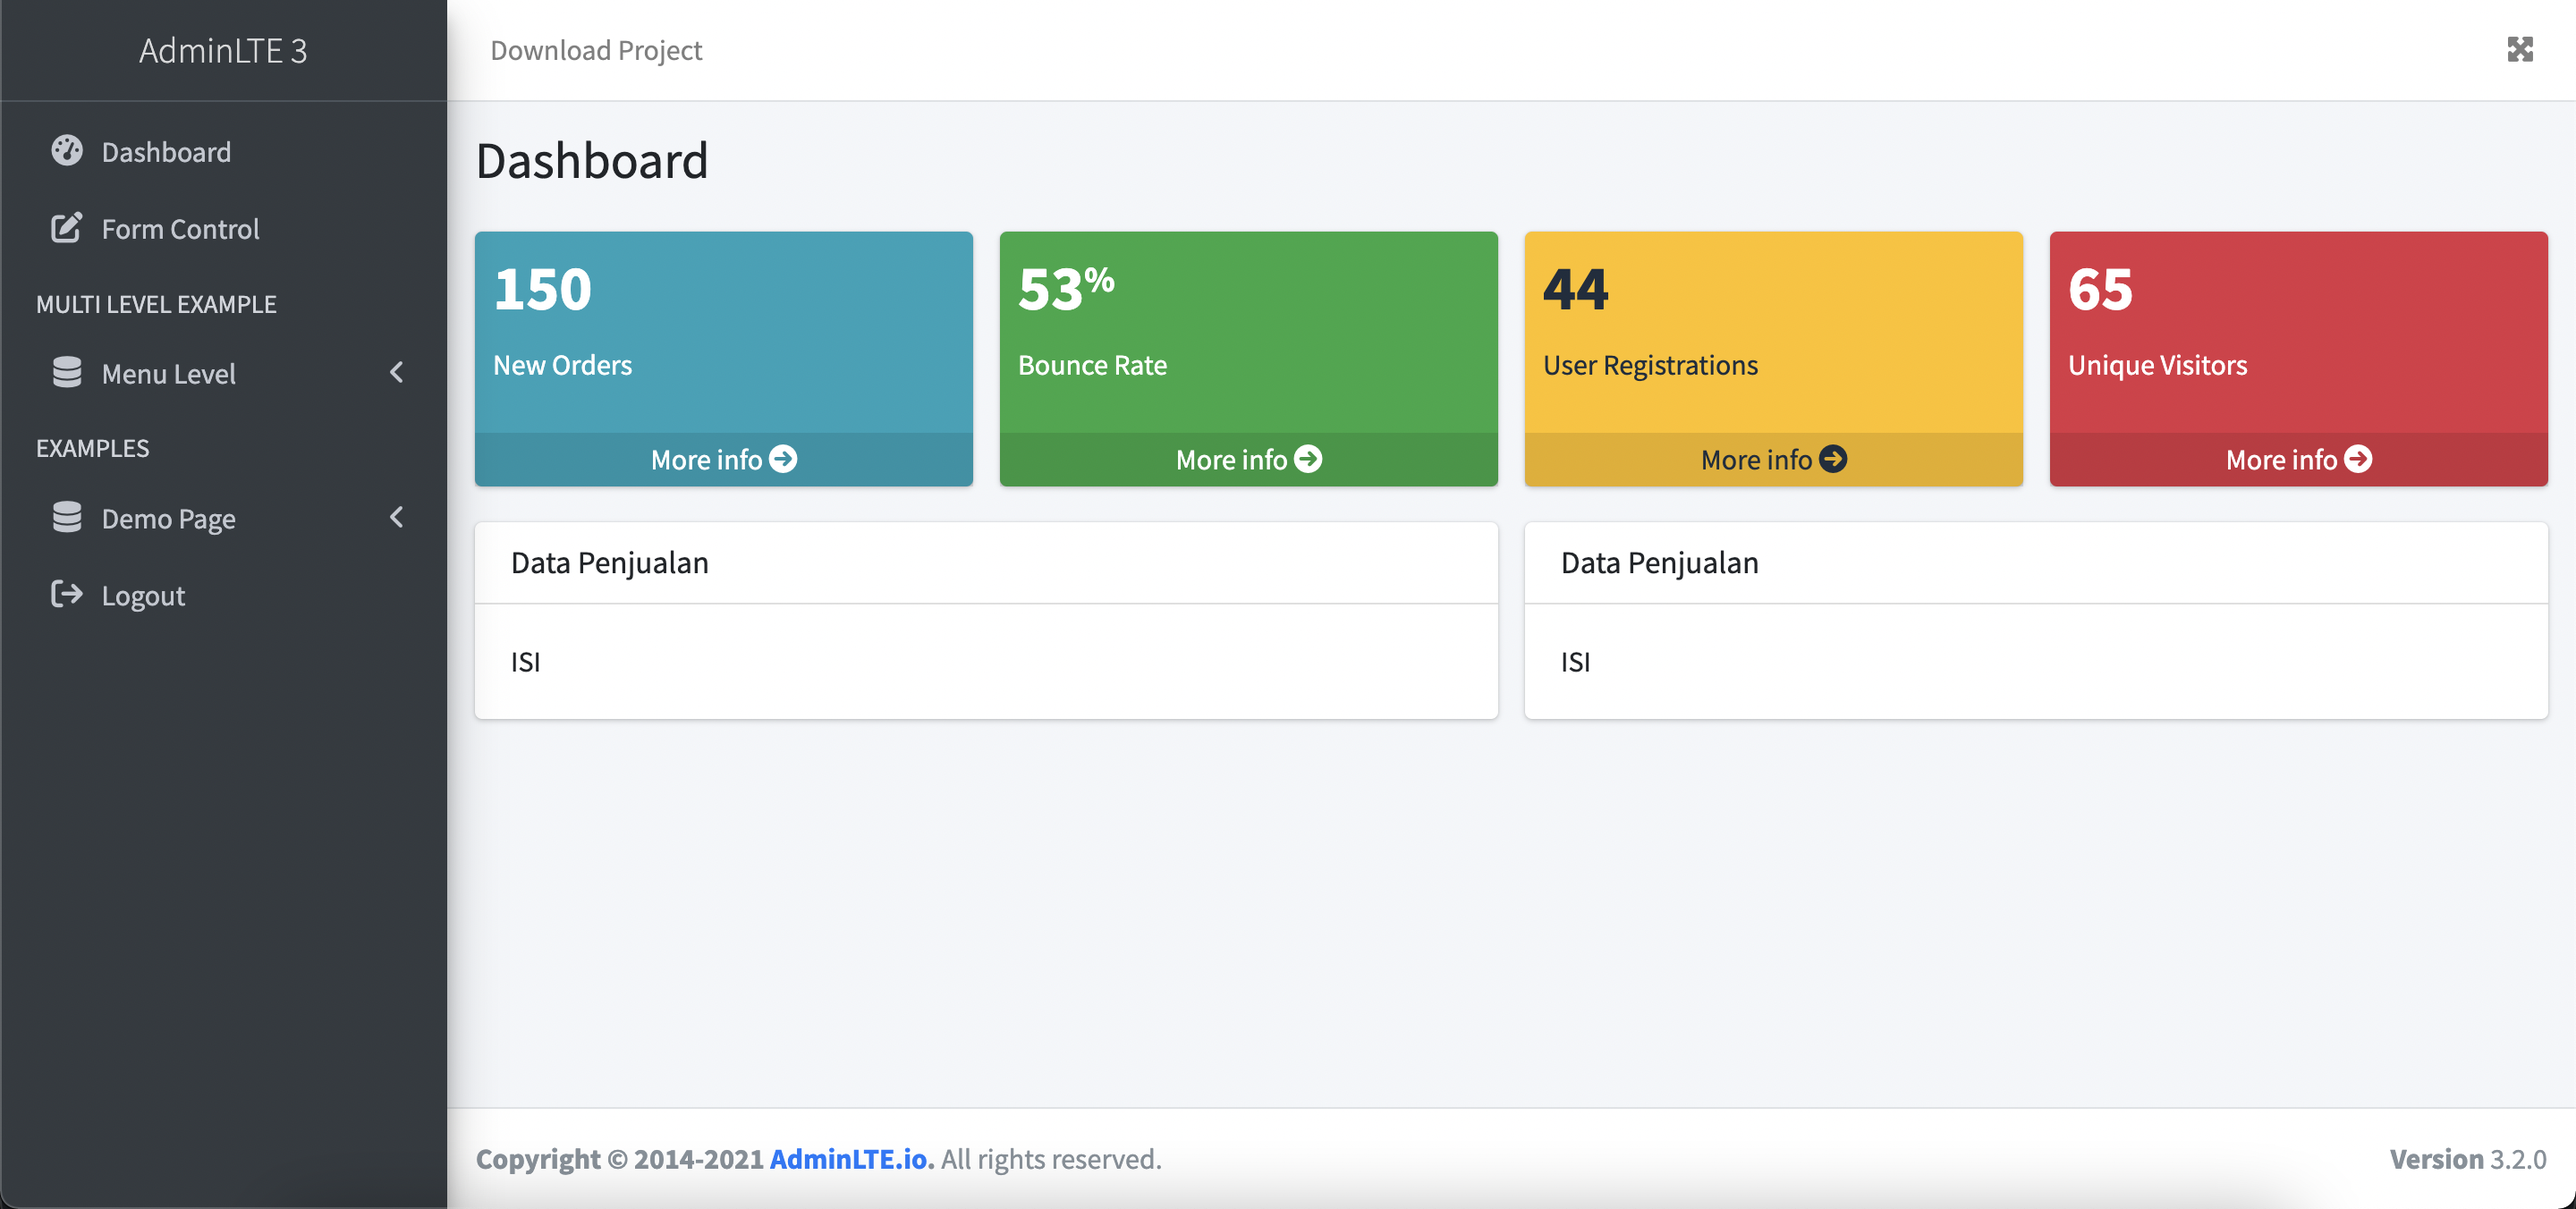
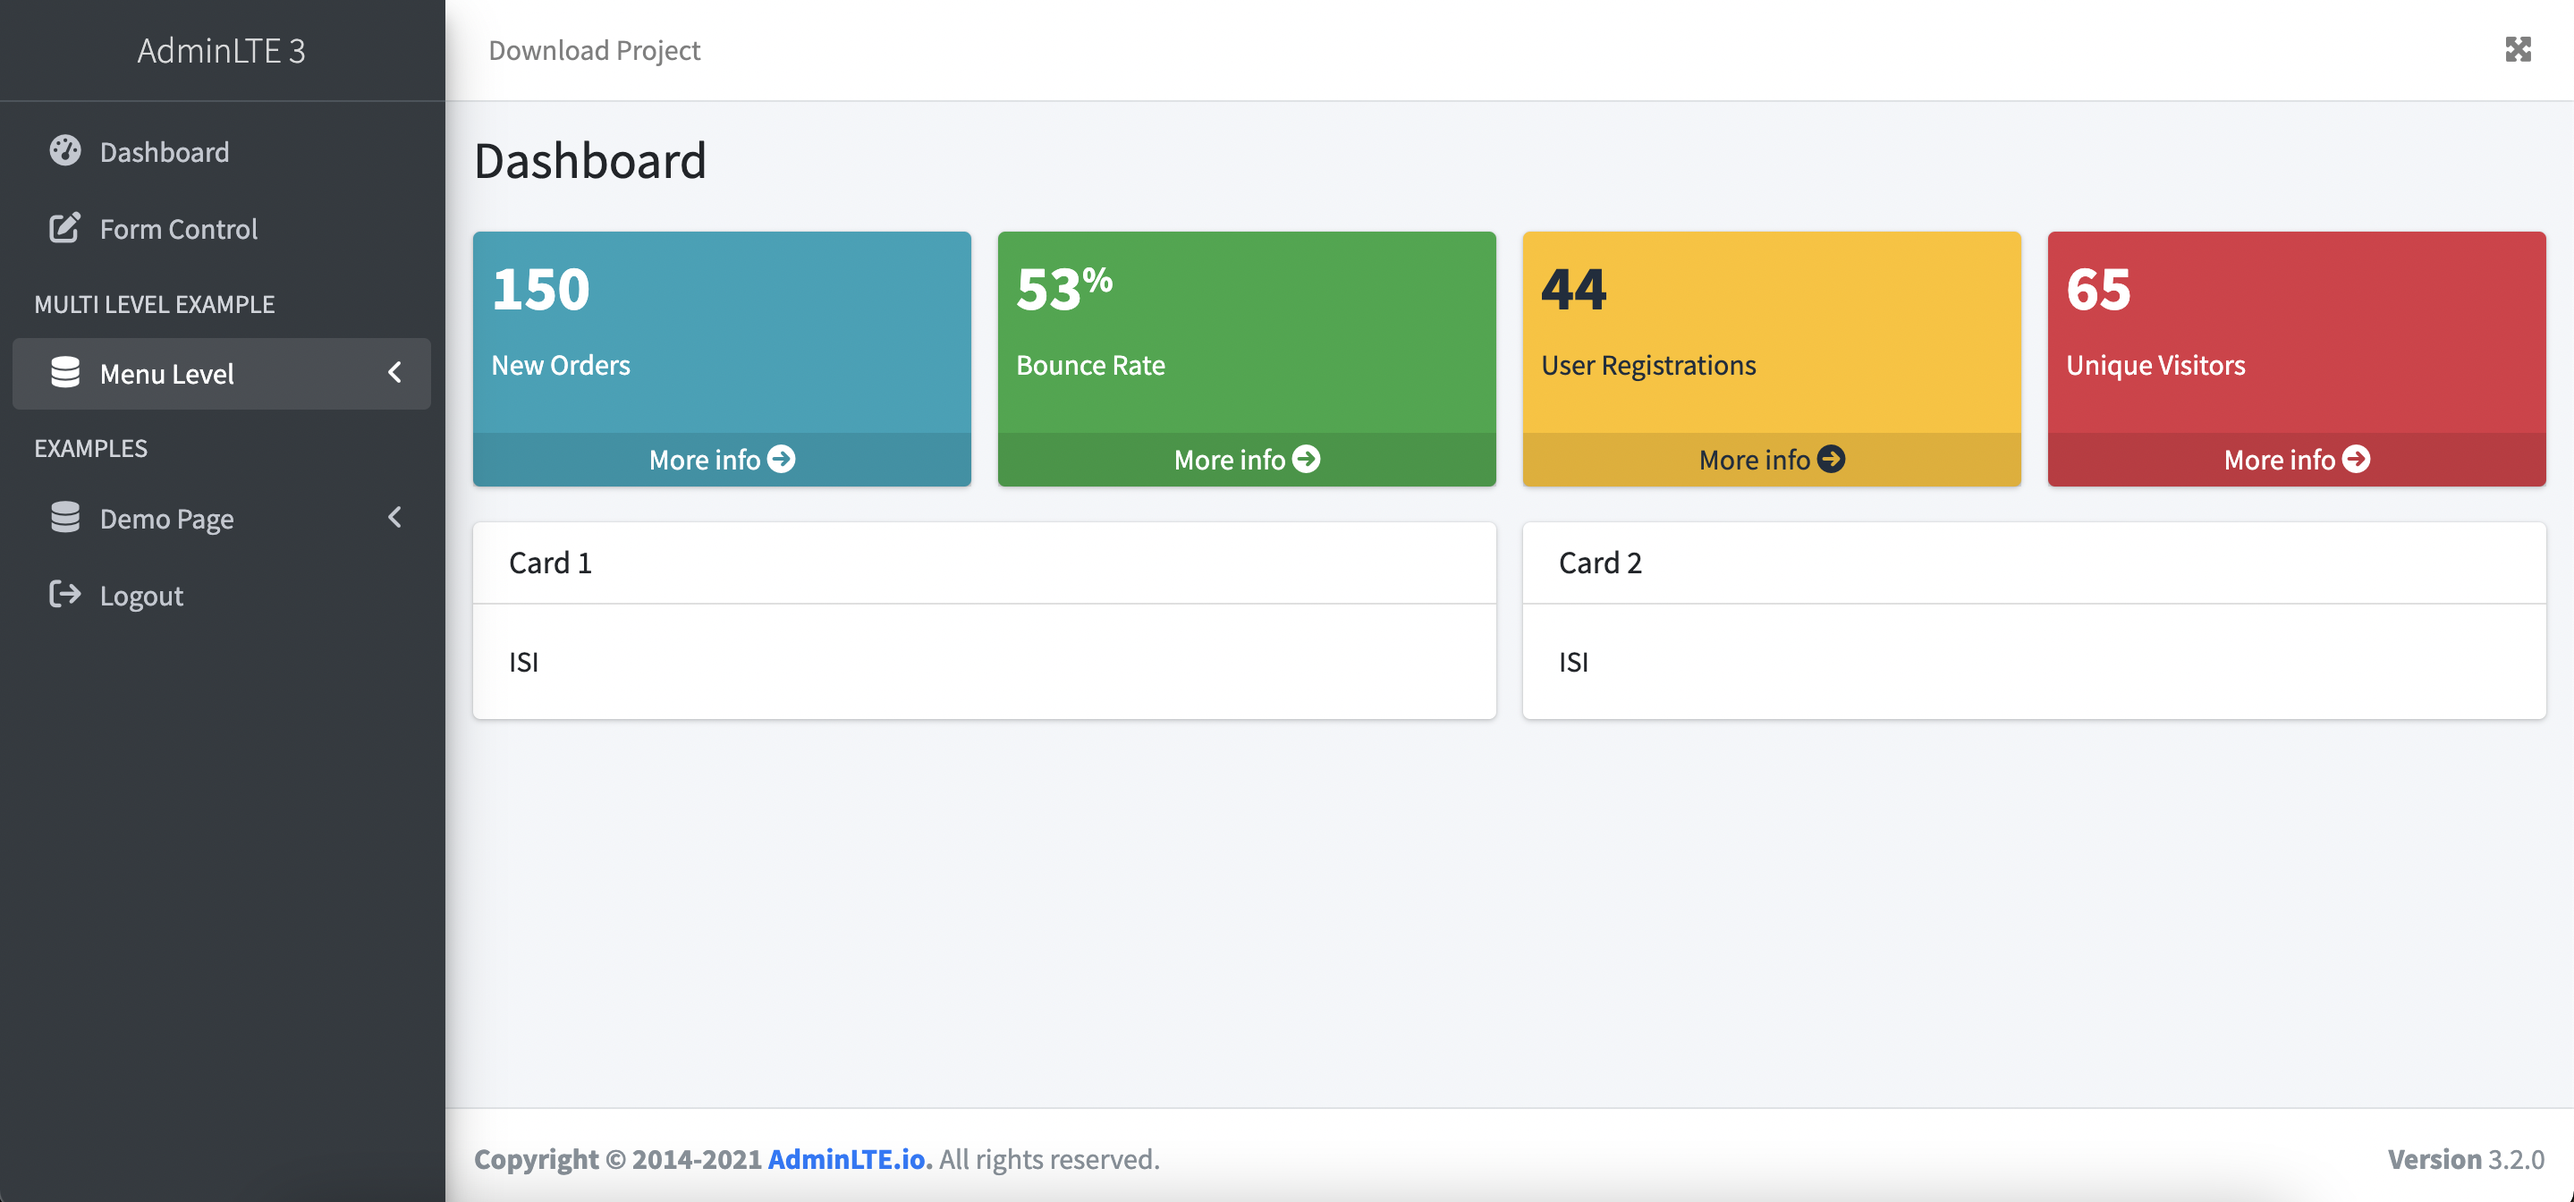
update redme

diff --git a/src/pages/dashboard/index.jsx b/src/pages/dashboard/index.jsx
@@ -66,10 +66,10 @@ const Dashboard = () => {
         </div>
 
         <div className="col-lg-6 col-lg-6">
-          <Card title="Data Penjualan">ISI</Card>
+          <Card title="Card 1">ISI</Card>
         </div>
         <div className="col-lg-6 col-lg-6">
-          <Card title="Data Penjualan">ISI</Card>
+          <Card title="Card 2">ISI</Card>
         </div>
       </div>
     </PanelContent>

diff --git a/README.md b/README.md
@@ -1,2 +1,3 @@
 Admin Lte React
 <img src="ss.png">
+<a href="https://admin-lte-react.netlify.app/"> Demo </a>
